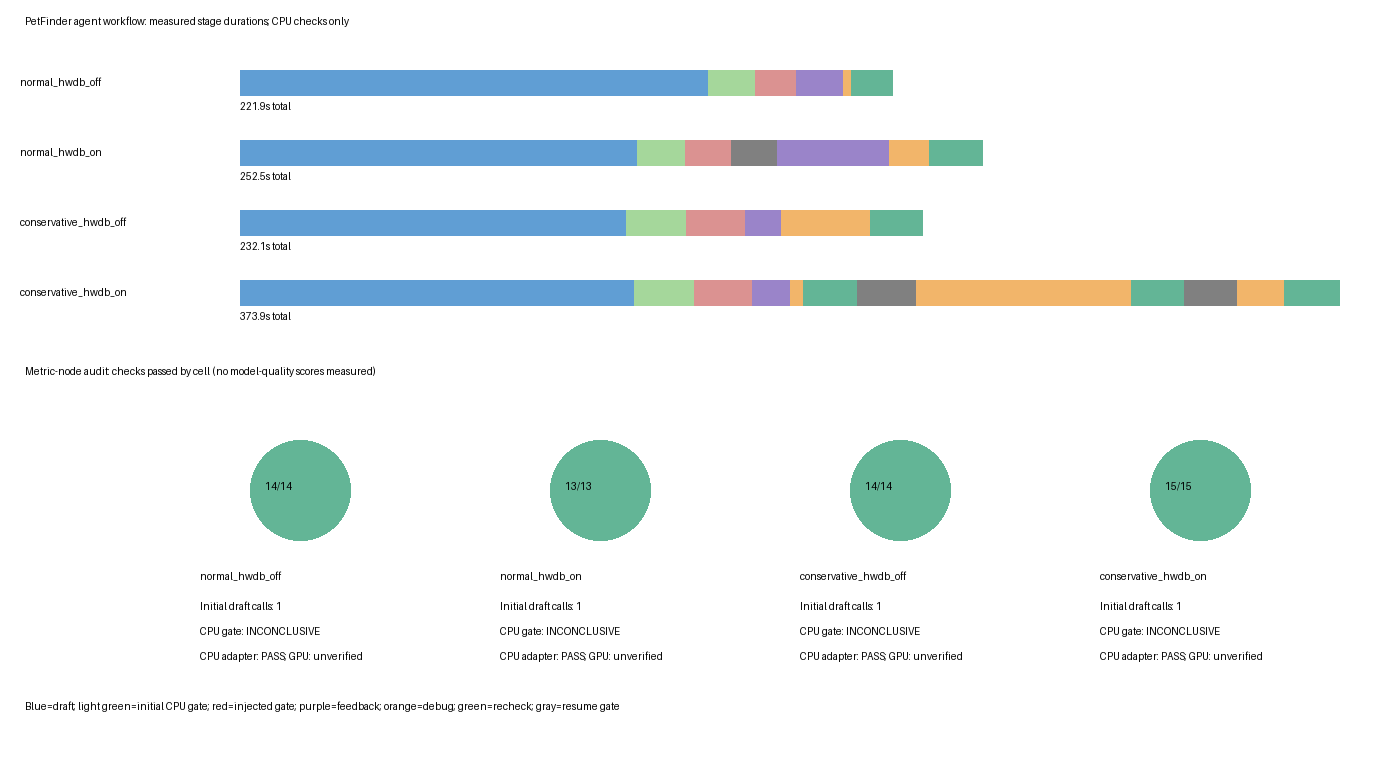
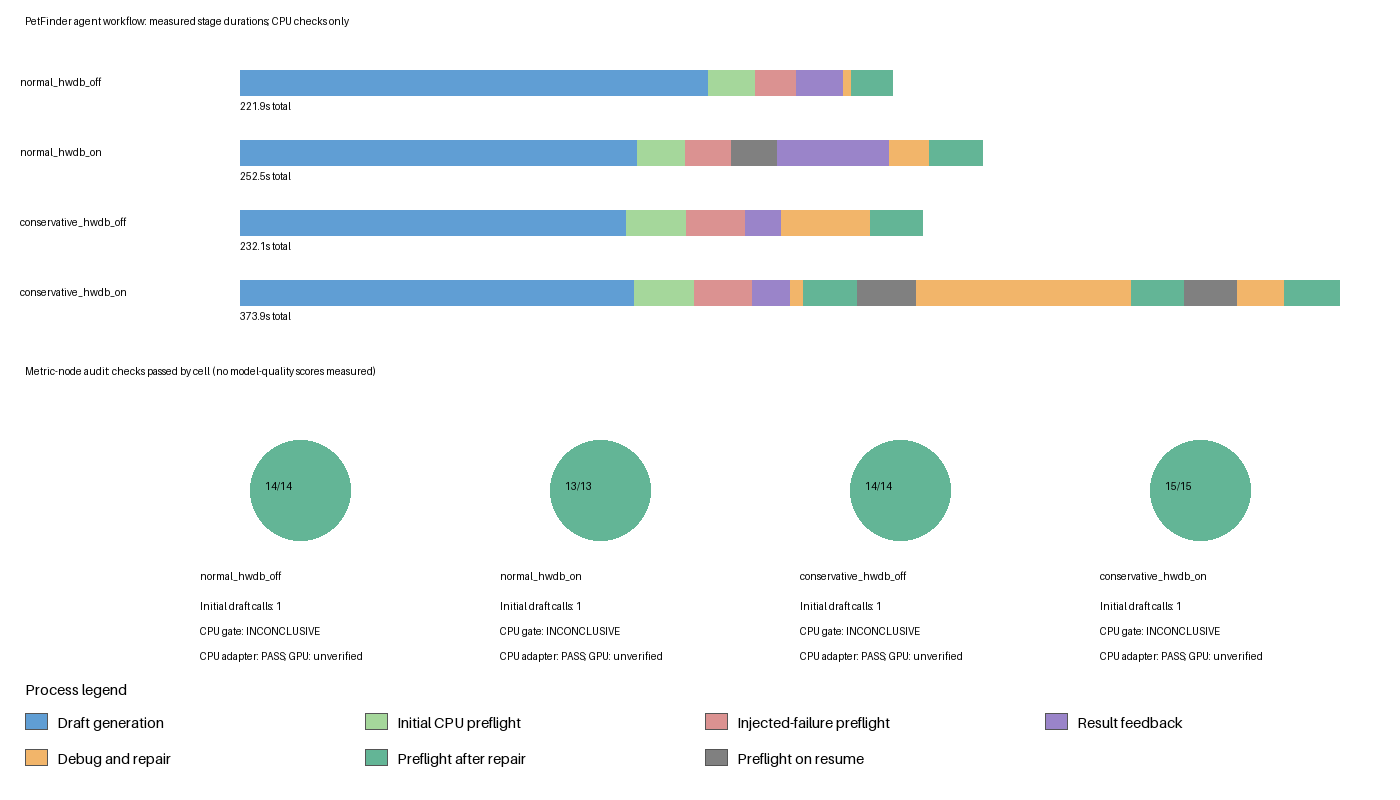
update

diff --git a/benchmarks/petfinder_workflow_matrix.py b/benchmarks/petfinder_workflow_matrix.py
@@ -288,13 +288,14 @@ def run_cell(precision, hardware, root):
 
 
 def plot(results, path):
-    from PIL import Image, ImageDraw
+    from PIL import Image, ImageDraw, ImageFont
 
-    image = Image.new("RGB", (1400, 760), "white")
+    image = Image.new("RGB", (1400, 800), "white")
     draw = ImageDraw.Draw(image)
     draw.text((25, 15), "PetFinder agent workflow: measured stage durations; CPU checks only", fill="black")
     colors = {"draft": "#609ed4", "draft_preflight": "#a5d79b", "injected_preflight": "#db9291",
-              "feedback": "#9a84c9", "debug": "#f2b56a", "repaired_preflight": "#63b596"}
+              "feedback": "#9a84c9", "debug": "#f2b56a", "repaired_preflight": "#63b596",
+              "resume_preflight": "gray"}
     maximum = max([result["duration_seconds"] for result in results] or [1])
     for index, result in enumerate(results):
         y = 70 + index * 70
@@ -315,7 +316,21 @@ def plot(results, path):
         draw.text((x - 50, 600), f"Initial draft calls: {result.get('initial_generation_calls', '?')}", fill="black")
         draw.text((x - 50, 625), f"CPU gate: {result.get('repaired_preflight_status', 'incomplete')}", fill="black")
         draw.text((x - 50, 650), "CPU adapter: PASS; GPU: unverified" if result.get("cpu_stage_statuses", {}).get("cpu_training") == "PASS" else "CPU adapter: check report", fill="black")
-    draw.text((25, 700), "Blue=draft; light green=initial CPU gate; red=injected gate; purple=feedback; orange=debug; green=recheck; gray=resume gate", fill="black")
+    legend = [
+        ("draft", "Draft generation"),
+        ("draft_preflight", "Initial CPU preflight"),
+        ("injected_preflight", "Injected-failure preflight"),
+        ("feedback", "Result feedback"),
+        ("debug", "Debug and repair"),
+        ("repaired_preflight", "Preflight after repair"),
+        ("resume_preflight", "Preflight on resume"),
+    ]
+    legend_font = ImageFont.load_default(size=15)
+    draw.text((25, 680), "Process legend", fill="black", font=legend_font)
+    for index, (stage, label) in enumerate(legend):
+        x, y = 25 + (index % 4) * 340, 713 + (index // 4) * 36
+        draw.rectangle((x, y, x + 22, y + 16), fill=colors[stage], outline="#555555")
+        draw.text((x + 32, y), label, fill="black", font=legend_font)
     image.save(path)
 
 
